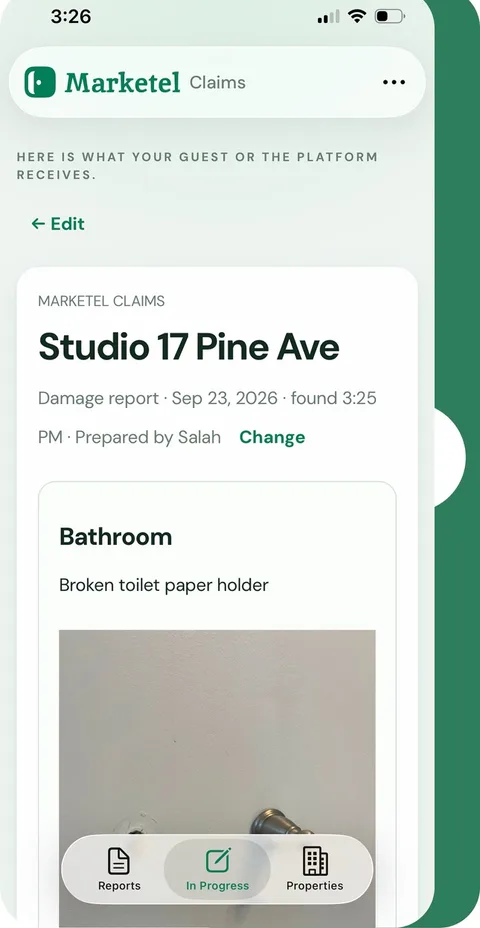
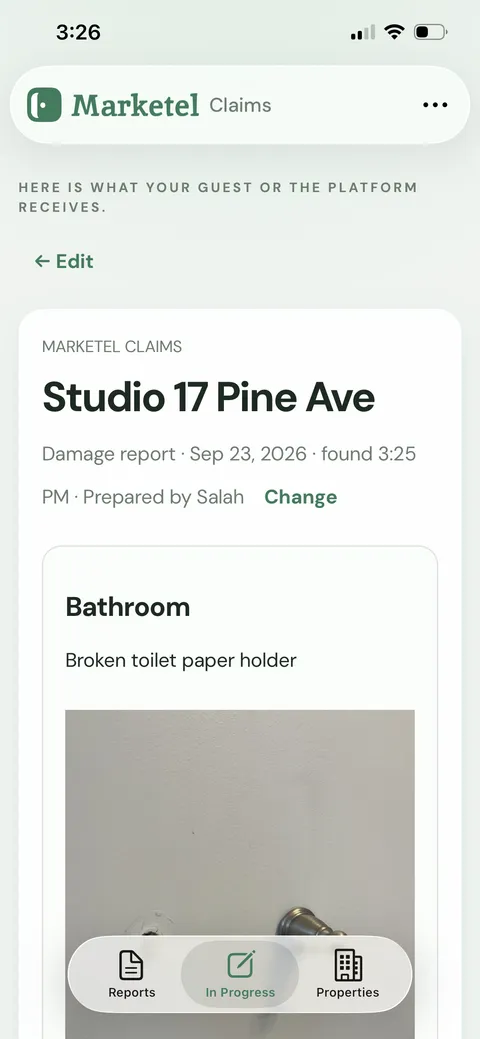
Raw app screenshots under the offer, and /funnel's "don't count this browser"
The real-app strip now uses the unedited phone screenshots (IMG_3344, 3347,
3350, 3351) instead of the App Store frames, with a thin border.

Opening /funnel switches that browser off: the demo sends no steps, every
request carries x-marketel-no-track, and the server records nothing and sends
Meta nothing for it; a button flips it back. ?notrack=1 does the same in an
in-app browser. The owner's other addresses (salahsalad100@gmail.com,
support@bookmarketel.com) are excluded like the others.

diff --git a/guest-lodge-backend/public/inspect/inspect.js b/guest-lodge-backend/public/inspect/inspect.js
@@ -252,8 +252,18 @@ function confirmSessionLost() {
   })().finally(() => { sessionCheck = null; });
   return sessionCheck;
 }
+// "Don't count my visits" from /funnel (or ?notrack=1 on any page, for an
+// in-app browser that /funnel never opens in). Same site, so same storage.
+const ownerBrowser = (() => {
+  try {
+    const asked = new URLSearchParams(location.search).get('notrack');
+    if (asked === '1') localStorage.setItem('marketel.noTrack', '1');
+    if (asked === '0') localStorage.removeItem('marketel.noTrack');
+    return localStorage.getItem('marketel.noTrack') === '1';
+  } catch { return false; }
+})();
 async function api(path, options = {}) {
-  const headers = { ...(session ? { Authorization: `Bearer ${session}` } : {}), ...(options.body && !(options.body instanceof FormData) ? { 'Content-Type': 'application/json' } : {}) };
+  const headers = { ...(ownerBrowser ? { 'x-marketel-no-track': '1' } : {}), ...(session ? { Authorization: `Bearer ${session}` } : {}), ...(options.body && !(options.body instanceof FormData) ? { 'Content-Type': 'application/json' } : {}) };
   // Uploads and downloads can legitimately take a while; everything else gets
   // a bound, so a request that never answers cannot hold the boot or a button.
   const controller = options.body instanceof FormData || options.blob ? null : new AbortController();
@@ -399,6 +409,7 @@ const haptic=(style='')=>{if(native)window.webkit?.messageHandlers?.marketelShel
 // before the email wall — otherwise the owners it exists to count are invisible.
 const logInspect=(name,anonymous=false)=>{
   if(!session&&!anonymous)return;
+  if(ownerBrowser)return;
   api(session?'/events':'/events/anon',{method:'POST',body:{name}}).catch(()=>{});
 };
 $('dialog-close').onclick = () => $('dialog').close();
@@ -610,6 +621,7 @@ const storedEmail = () => { try { return localStorage.getItem('inspect.email') |
 const visitorId = (() => { try { let value = localStorage.getItem('inspect.visitor') || ''; if (!/^v_[A-Za-z0-9]{8,40}$/.test(value)) { value = `v_${uid().replace(/[^A-Za-z0-9]/g, '').slice(0, 24)}`; localStorage.setItem('inspect.visitor', value); } return value; } catch { return ''; } })();
 const trackedSteps = new Set();
 function track(name, detail, once = true) {
+  if (ownerBrowser) return;
   if (once && trackedSteps.has(name)) return;
   trackedSteps.add(name);
   api(session ? '/events' : '/events/anon', { method: 'POST', body: { name, tool: toolId(), visitorId, detail } }).catch(() => {});
@@ -987,6 +999,7 @@ function simCheckout(email,trigger){
 // counts one per visitor. The attribution goes with it, since there is no
 // account yet to carry it.
 function simCheckoutTapped(){
+  if(ownerBrowser)return;
   api('/events/anon',{method:'POST',body:{name:'SimCheckoutTapped',tool:toolId(),visitorId,detail:planInterval,attribution:inspectAttribution}}).catch(()=>{});
 }
 function simBuy(trigger){
@@ -1043,7 +1056,7 @@ function simKept(email){
 function simAppProof(){
   const shots=MANIFESTS?.[toolId()]?.appStore?.screens||[];
   if(!appLive()||!shots.length)return '';
-  return `<section class="sim-app-proof" id="sim-app-proof"><small class="eyebrow">The real app</small><h3>This is what you'll use.</h3><div class="sim-screens" id="sim-screens" tabindex="0" role="group" aria-label="Screens of the Marketel app">${shots.map(shot=>`<figure><img src="/inspect/sample/${esc(shot.file)}" alt="${esc(shot.caption)}" loading="lazy" decoding="async" width="480" height="928"><figcaption>${esc(shot.caption)}</figcaption></figure>`).join('')}</div><div class="sim-screens-nav"><button type="button" class="quiet" data-screens="-1" aria-label="Previous screen">←</button><button type="button" class="quiet" data-screens="1" aria-label="Next screen">→</button></div><p class="muted"><small>On the App Store for iPhone, and right here in your browser.</small></p></section>`;
+  return `<section class="sim-app-proof" id="sim-app-proof"><small class="eyebrow">The real app</small><h3>This is what you'll use.</h3><div class="sim-screens" id="sim-screens" tabindex="0" role="group" aria-label="Screens of the Marketel app">${shots.map(shot=>`<figure><img src="/inspect/sample/${esc(shot.file)}" alt="${esc(shot.caption)}" loading="lazy" decoding="async" width="480" height="1039"><figcaption>${esc(shot.caption)}</figcaption></figure>`).join('')}</div><div class="sim-screens-nav"><button type="button" class="quiet" data-screens="-1" aria-label="Previous screen">←</button><button type="button" class="quiet" data-screens="1" aria-label="Next screen">→</button></div><p class="muted"><small>On the App Store for iPhone, and right here in your browser.</small></p></section>`;
 }
 function bindAppProof(){
   const proof=$('sim-app-proof'),strip=$('sim-screens');

diff --git a/marketel-frontdesk-ios/www/inspect/inspect.js b/marketel-frontdesk-ios/www/inspect/inspect.js
@@ -252,8 +252,18 @@ function confirmSessionLost() {
   })().finally(() => { sessionCheck = null; });
   return sessionCheck;
 }
+// "Don't count my visits" from /funnel (or ?notrack=1 on any page, for an
+// in-app browser that /funnel never opens in). Same site, so same storage.
+const ownerBrowser = (() => {
+  try {
+    const asked = new URLSearchParams(location.search).get('notrack');
+    if (asked === '1') localStorage.setItem('marketel.noTrack', '1');
+    if (asked === '0') localStorage.removeItem('marketel.noTrack');
+    return localStorage.getItem('marketel.noTrack') === '1';
+  } catch { return false; }
+})();
 async function api(path, options = {}) {
-  const headers = { ...(session ? { Authorization: `Bearer ${session}` } : {}), ...(options.body && !(options.body instanceof FormData) ? { 'Content-Type': 'application/json' } : {}) };
+  const headers = { ...(ownerBrowser ? { 'x-marketel-no-track': '1' } : {}), ...(session ? { Authorization: `Bearer ${session}` } : {}), ...(options.body && !(options.body instanceof FormData) ? { 'Content-Type': 'application/json' } : {}) };
   // Uploads and downloads can legitimately take a while; everything else gets
   // a bound, so a request that never answers cannot hold the boot or a button.
   const controller = options.body instanceof FormData || options.blob ? null : new AbortController();
@@ -399,6 +409,7 @@ const haptic=(style='')=>{if(native)window.webkit?.messageHandlers?.marketelShel
 // before the email wall — otherwise the owners it exists to count are invisible.
 const logInspect=(name,anonymous=false)=>{
   if(!session&&!anonymous)return;
+  if(ownerBrowser)return;
   api(session?'/events':'/events/anon',{method:'POST',body:{name}}).catch(()=>{});
 };
 $('dialog-close').onclick = () => $('dialog').close();
@@ -610,6 +621,7 @@ const storedEmail = () => { try { return localStorage.getItem('inspect.email') |
 const visitorId = (() => { try { let value = localStorage.getItem('inspect.visitor') || ''; if (!/^v_[A-Za-z0-9]{8,40}$/.test(value)) { value = `v_${uid().replace(/[^A-Za-z0-9]/g, '').slice(0, 24)}`; localStorage.setItem('inspect.visitor', value); } return value; } catch { return ''; } })();
 const trackedSteps = new Set();
 function track(name, detail, once = true) {
+  if (ownerBrowser) return;
   if (once && trackedSteps.has(name)) return;
   trackedSteps.add(name);
   api(session ? '/events' : '/events/anon', { method: 'POST', body: { name, tool: toolId(), visitorId, detail } }).catch(() => {});
@@ -987,6 +999,7 @@ function simCheckout(email,trigger){
 // counts one per visitor. The attribution goes with it, since there is no
 // account yet to carry it.
 function simCheckoutTapped(){
+  if(ownerBrowser)return;
   api('/events/anon',{method:'POST',body:{name:'SimCheckoutTapped',tool:toolId(),visitorId,detail:planInterval,attribution:inspectAttribution}}).catch(()=>{});
 }
 function simBuy(trigger){
@@ -1043,7 +1056,7 @@ function simKept(email){
 function simAppProof(){
   const shots=MANIFESTS?.[toolId()]?.appStore?.screens||[];
   if(!appLive()||!shots.length)return '';
-  return `<section class="sim-app-proof" id="sim-app-proof"><small class="eyebrow">The real app</small><h3>This is what you'll use.</h3><div class="sim-screens" id="sim-screens" tabindex="0" role="group" aria-label="Screens of the Marketel app">${shots.map(shot=>`<figure><img src="/inspect/sample/${esc(shot.file)}" alt="${esc(shot.caption)}" loading="lazy" decoding="async" width="480" height="928"><figcaption>${esc(shot.caption)}</figcaption></figure>`).join('')}</div><div class="sim-screens-nav"><button type="button" class="quiet" data-screens="-1" aria-label="Previous screen">←</button><button type="button" class="quiet" data-screens="1" aria-label="Next screen">→</button></div><p class="muted"><small>On the App Store for iPhone, and right here in your browser.</small></p></section>`;
+  return `<section class="sim-app-proof" id="sim-app-proof"><small class="eyebrow">The real app</small><h3>This is what you'll use.</h3><div class="sim-screens" id="sim-screens" tabindex="0" role="group" aria-label="Screens of the Marketel app">${shots.map(shot=>`<figure><img src="/inspect/sample/${esc(shot.file)}" alt="${esc(shot.caption)}" loading="lazy" decoding="async" width="480" height="1039"><figcaption>${esc(shot.caption)}</figcaption></figure>`).join('')}</div><div class="sim-screens-nav"><button type="button" class="quiet" data-screens="-1" aria-label="Previous screen">←</button><button type="button" class="quiet" data-screens="1" aria-label="Next screen">→</button></div><p class="muted"><small>On the App Store for iPhone, and right here in your browser.</small></p></section>`;
 }
 function bindAppProof(){
   const proof=$('sim-app-proof'),strip=$('sim-screens');

diff --git a/guest-lodge-backend/test/browser/funnel.test.js b/guest-lodge-backend/test/browser/funnel.test.js
@@ -1,0 +1,61 @@
+'use strict';
+const test = require('node:test');
+const assert = require('node:assert/strict');
+const fs = require('node:fs');
+const path = require('node:path');
+const { chromium } = require('playwright-core');
+const { open } = require('./harness');
+const { buildWedgeFunnel } = require('../../wedge-funnel');
+
+// The owner's own browser, once switched off on /funnel, sends no steps at
+// all, and every request it does make is marked so the server records nothing.
+test('a browser switched off on /funnel goes through the whole demo without counting', async () => {
+  const h = await open({ arm: 'claims', signedIn: false, demo: true, viewport: { width: 390, height: 844 } });
+  try {
+    await h.page.waitForSelector('[data-sim-pick]');
+    await h.page.evaluate(() => localStorage.setItem('marketel.noTrack', '1'));
+    const sent = [];
+    h.page.on('request', request => { const url = new URL(request.url()); if (url.pathname.startsWith('/api/inspect/')) sent.push({ path: url.pathname, marked: request.headers()['x-marketel-no-track'] === '1' }); });
+    const before = h.events.length;
+    await h.page.reload({ waitUntil: 'domcontentloaded' });
+    await h.page.locator('[data-sim-pick]').first().click();
+    await h.page.waitForSelector('#sim-mic-button');
+    await h.page.click('#sim-mic-button');
+    await h.page.waitForSelector('#sim-shutter:not([disabled])', { timeout: 10000 });
+    await h.page.click('#sim-shutter');
+    await h.page.waitForSelector('#sim-see', { timeout: 10000 });
+    await h.page.click('#sim-see');
+    await h.page.waitForSelector('#sim-buy');
+    await h.page.waitForTimeout(300);
+    assert.equal(h.events.length, before, 'no demo step was sent');
+    assert.ok(!sent.some(r => r.path.startsWith('/api/inspect/events')), JSON.stringify(sent));
+    assert.ok(sent.every(r => r.marked), `every request is marked: ${JSON.stringify(sent)}`);
+    h.assertClean();
+  } finally { await h.close(); }
+});
+
+test('/funnel switches its own browser off the first time, and the button flips it', async () => {
+  const body = JSON.stringify({ wedges: [{ id: 'claims', product: 'Claims' }], tool: 'claims', ...buildWedgeFunnel([]) });
+  const browser = await chromium.launch();
+  try {
+    const page = await browser.newPage({ viewport: { width: 1280, height: 900 } });
+    await page.addInitScript(() => localStorage.setItem('marketelAdminToken', 'test'));
+    await page.route('http://funnel.test/**', route => {
+      const url = new URL(route.request().url());
+      if (url.pathname === '/api/funnel/wedge') return route.fulfill({ status: 200, body, headers: { 'content-type': 'application/json' } });
+      if (url.pathname === '/funnel') return route.fulfill({ status: 200, body: fs.readFileSync(path.join(__dirname, '../../wedge-funnel.html')), headers: { 'content-type': 'text/html' } });
+      return route.fulfill({ status: 404, body: '' });
+    });
+    await page.goto('http://funnel.test/funnel');
+    await page.waitForSelector('#track-toggle');
+    assert.equal(await page.evaluate(() => localStorage.getItem('marketel.noTrack')), '1');
+    assert.match(await page.textContent('#track-toggle'), /Not counting this browser/);
+    await page.click('#track-toggle');
+    assert.equal(await page.evaluate(() => localStorage.getItem('marketel.noTrack')), '0');
+    assert.match(await page.textContent('#track-toggle'), /^Counting this browser/);
+    // Chosen once, it stays chosen: reopening does not switch it back off.
+    await page.reload();
+    await page.waitForSelector('#track-toggle');
+    assert.equal(await page.evaluate(() => localStorage.getItem('marketel.noTrack')), '0');
+  } finally { await browser.close(); }
+});

diff --git a/guest-lodge-backend/public/inspect/index.html b/guest-lodge-backend/public/inspect/index.html
@@ -1,3 +1,3 @@
 <!doctype html>
-<html lang="en"><head><meta charset="utf-8"><meta name="viewport" content="width=device-width,initial-scale=1,maximum-scale=1,user-scalable=no,viewport-fit=cover,interactive-widget=overlays-content"><meta name="theme-color" content="#eff4f0"><meta name="referrer" content="no-referrer"><title>Marketel Inspect — Your walkthrough, a finished report</title><link rel="icon" href="/marketel-frontdesk-icon.png"><link rel="stylesheet" href="/inspect/inspect.css?v=81"></head>
-<body><header><div class="header-bar"><a id="product-switch" class="brand" href="/inspect/"><img class="brand-icon" src="/marketel-frontdesk-icon.png" alt=""><img class="brand-wordmark" src="/marketel.svg" alt="Marketel"><span>Inspect</span></a><button id="account-button" class="quiet">Sign in</button></div><div id="header-drawer" class="header-drawer" role="region" aria-label="Sign in to Marketel Inspect" aria-hidden="true" inert><div class="header-drawer-clip"><section class="header-drawer-content"><div id="header-drawer-body"></div><button type="button" id="header-drawer-close" class="quiet header-drawer-close" aria-label="Close">&#10005;</button></section></div></div></header><main id="app"></main><nav id="nav" hidden><button data-page="reports">Reports</button><button id="current-report" data-page="new">+ New report</button><button data-page="properties">Properties</button></nav><div id="notice" role="status" aria-live="polite"></div><dialog id="dialog" tabindex="-1"><div id="dialog-body"></div><button id="dialog-close" class="quiet" aria-label="Close" title="Close">&#10005;</button></dialog><script src="/inspect/wedges.js?v=81"></script><script src="/inspect/inspect.js?v=81" type="module"></script></body></html>
+<html lang="en"><head><meta charset="utf-8"><meta name="viewport" content="width=device-width,initial-scale=1,maximum-scale=1,user-scalable=no,viewport-fit=cover,interactive-widget=overlays-content"><meta name="theme-color" content="#eff4f0"><meta name="referrer" content="no-referrer"><title>Marketel Inspect — Your walkthrough, a finished report</title><link rel="icon" href="/marketel-frontdesk-icon.png"><link rel="stylesheet" href="/inspect/inspect.css?v=83"></head>
+<body><header><div class="header-bar"><a id="product-switch" class="brand" href="/inspect/"><img class="brand-icon" src="/marketel-frontdesk-icon.png" alt=""><img class="brand-wordmark" src="/marketel.svg" alt="Marketel"><span>Inspect</span></a><button id="account-button" class="quiet">Sign in</button></div><div id="header-drawer" class="header-drawer" role="region" aria-label="Sign in to Marketel Inspect" aria-hidden="true" inert><div class="header-drawer-clip"><section class="header-drawer-content"><div id="header-drawer-body"></div><button type="button" id="header-drawer-close" class="quiet header-drawer-close" aria-label="Close">&#10005;</button></section></div></div></header><main id="app"></main><nav id="nav" hidden><button data-page="reports">Reports</button><button id="current-report" data-page="new">+ New report</button><button data-page="properties">Properties</button></nav><div id="notice" role="status" aria-live="polite"></div><dialog id="dialog" tabindex="-1"><div id="dialog-body"></div><button id="dialog-close" class="quiet" aria-label="Close" title="Close">&#10005;</button></dialog><script src="/inspect/wedges.js?v=83"></script><script src="/inspect/inspect.js?v=83" type="module"></script></body></html>

diff --git a/marketel-frontdesk-ios/www/inspect/index.html b/marketel-frontdesk-ios/www/inspect/index.html
@@ -1,3 +1,3 @@
 <!doctype html>
-<html lang="en"><head><meta charset="utf-8"><meta name="viewport" content="width=device-width,initial-scale=1,maximum-scale=1,user-scalable=no,viewport-fit=cover,interactive-widget=overlays-content"><meta name="theme-color" content="#eff4f0"><meta name="referrer" content="no-referrer"><title>Marketel Inspect — Your walkthrough, a finished report</title><link rel="icon" href="/marketel-frontdesk-icon.png"><link rel="stylesheet" href="/inspect/inspect.css?v=81"></head>
-<body><header><div class="header-bar"><a id="product-switch" class="brand" href="/inspect/"><img class="brand-icon" src="/marketel-frontdesk-icon.png" alt=""><img class="brand-wordmark" src="/marketel.svg" alt="Marketel"><span>Inspect</span></a><button id="account-button" class="quiet">Sign in</button></div><div id="header-drawer" class="header-drawer" role="region" aria-label="Sign in to Marketel Inspect" aria-hidden="true" inert><div class="header-drawer-clip"><section class="header-drawer-content"><div id="header-drawer-body"></div><button type="button" id="header-drawer-close" class="quiet header-drawer-close" aria-label="Close">&#10005;</button></section></div></div></header><main id="app"></main><nav id="nav" hidden><button data-page="reports">Reports</button><button id="current-report" data-page="new">+ New report</button><button data-page="properties">Properties</button></nav><div id="notice" role="status" aria-live="polite"></div><dialog id="dialog" tabindex="-1"><div id="dialog-body"></div><button id="dialog-close" class="quiet" aria-label="Close" title="Close">&#10005;</button></dialog><script src="/inspect/wedges.js?v=81"></script><script src="/inspect/inspect.js?v=81" type="module"></script></body></html>
+<html lang="en"><head><meta charset="utf-8"><meta name="viewport" content="width=device-width,initial-scale=1,maximum-scale=1,user-scalable=no,viewport-fit=cover,interactive-widget=overlays-content"><meta name="theme-color" content="#eff4f0"><meta name="referrer" content="no-referrer"><title>Marketel Inspect — Your walkthrough, a finished report</title><link rel="icon" href="/marketel-frontdesk-icon.png"><link rel="stylesheet" href="/inspect/inspect.css?v=83"></head>
+<body><header><div class="header-bar"><a id="product-switch" class="brand" href="/inspect/"><img class="brand-icon" src="/marketel-frontdesk-icon.png" alt=""><img class="brand-wordmark" src="/marketel.svg" alt="Marketel"><span>Inspect</span></a><button id="account-button" class="quiet">Sign in</button></div><div id="header-drawer" class="header-drawer" role="region" aria-label="Sign in to Marketel Inspect" aria-hidden="true" inert><div class="header-drawer-clip"><section class="header-drawer-content"><div id="header-drawer-body"></div><button type="button" id="header-drawer-close" class="quiet header-drawer-close" aria-label="Close">&#10005;</button></section></div></div></header><main id="app"></main><nav id="nav" hidden><button data-page="reports">Reports</button><button id="current-report" data-page="new">+ New report</button><button data-page="properties">Properties</button></nav><div id="notice" role="status" aria-live="polite"></div><dialog id="dialog" tabindex="-1"><div id="dialog-body"></div><button id="dialog-close" class="quiet" aria-label="Close" title="Close">&#10005;</button></dialog><script src="/inspect/wedges.js?v=83"></script><script src="/inspect/inspect.js?v=83" type="module"></script></body></html>

diff --git a/guest-lodge-backend/inspect.js b/guest-lodge-backend/inspect.js
@@ -484,6 +484,8 @@ function registerInspect(app, {
     if (!merged || JSON.stringify(merged) === JSON.stringify(account.metaAttribution || null)) return account;
     return db.inspectAccount.update({ where: { id: account.id }, data: { metaAttribution: merged } });
   };
+  // Set by /funnel's "Don't count my visits" switch in the owner's own browser.
+  const ownerBrowser = req => String(req?.headers?.['x-marketel-no-track'] || '') === '1';
   const queueInspectCapi = async (eventName, {
     account,
     req,
@@ -494,8 +496,9 @@ function registerInspect(app, {
     eventTime,
     appPurchase = false,
   }) => {
-    // The review account is Apple testing the app, not a customer the ads found.
-    const excluded = !!account && (isCapiExcludedEmail(account.email) || isReviewAccount(account.email));
+    // The review account is Apple testing the app, not a customer the ads found,
+    // and a browser the owner switched off on /funnel is not either.
+    const excluded = (!!account && (isCapiExcludedEmail(account.email) || isReviewAccount(account.email))) || ownerBrowser(req);
     const attribution = account?.metaAttribution && typeof account.metaAttribution === 'object'
       ? account.metaAttribution
       : {};
@@ -912,6 +915,7 @@ const signaturesHtml = document => (document.signatures || []).map(signature => 
   };
   router.post('/events/anon', guarded(async (req, res) => {
     if (!ANON_EVENTS.has(req.body?.name)) throw fail(400, 'Unknown event.');
+    if (ownerBrowser(req)) return res.json({ success: true, ignored: true });
     // Automated browsers are not visitors: our own production checks run
     // headless, and counting them (or sending them to Meta) skews the funnel.
     if (/HeadlessChrome|bot\b|crawler|spider|Playwright/i.test(String(req.headers?.['user-agent'] || ''))) return res.json({ success: true, ignored: true });
@@ -1016,7 +1020,7 @@ const signaturesHtml = document => (document.signatures || []).map(signature => 
       success_url: toolReturn(tool, 'sim=1&checkout=success&session={CHECKOUT_SESSION_ID}'),
       cancel_url: toolReturn(tool, 'sim=1&checkout=cancelled'),
     });
-    await recordBestEffort(null, 'SimCheckoutStarted', `inspect-sim-checkout:${session.id}`, { tool, visitorId: visitor });
+    if (!ownerBrowser(req)) await recordBestEffort(null, 'SimCheckoutStarted', `inspect-sim-checkout:${session.id}`, { tool, visitorId: visitor });
     res.json({ url: session.url, trialDays });
   }));
 
@@ -1096,6 +1100,7 @@ const signaturesHtml = document => (document.signatures || []).map(signature => 
   ]);
   router.post('/events', guarded(async (req, res) => {
     if (!CLIENT_EVENTS.has(req.body.name)) throw fail(400, 'Unknown event.');
+    if (ownerBrowser(req)) return res.json({ success: true, ignored: true });
     const sourceId = CLIENT_EVENTS.get(req.body.name);
     if (!sourceId) rate(`inspect-events:${req.inspect.id}`, 120, 3600000);
     await record(req.inspect.id, req.body.name, sourceId ? sourceId(req.inspect.id) : undefined, eventExtra(req.body));

diff --git a/guest-lodge-backend/wedge-funnel.html b/guest-lodge-backend/wedge-funnel.html
@@ -72,6 +72,9 @@
   .feed td.detail { color: var(--muted); }
   .empty { color: var(--muted); padding: 18px 0; text-align: center; }
   .error { color: var(--danger); }
+  .track { font: inherit; font-size: 12px; font-weight: 700; border-radius: 999px; padding: 6px 11px; cursor: pointer; border: 1px solid var(--green); background: transparent; color: var(--green-dark); }
+  .track[aria-pressed="false"] { border-color: var(--danger); color: var(--danger); }
+  .track-note { color: var(--muted); font-size: 12px; margin: -8px 0 14px; }
   #tip { position: fixed; z-index: 10; pointer-events: none; background: var(--text); color: var(--bg); padding: 8px 10px; border-radius: 10px; font-size: 12px; line-height: 1.5; box-shadow: 0 8px 24px #0003; opacity: 0; transition: opacity .12s; max-width: 260px; }
   #tip.on { opacity: 1; }
   footer { display: flex; justify-content: space-between; align-items: center; gap: 10px; margin-top: 8px; }
@@ -94,11 +97,13 @@
       <button type="button" data-days="all">All time</button>
     </div>
     <span class="spacer"></span>
+    <button type="button" class="track" id="track-toggle" aria-pressed="true"></button>
     <span class="updated" id="updated"></span>
     <button type="button" class="quiet" id="refresh">Refresh</button>
     <a class="quiet" href="/funnel/legacy">Bookings &amp; support →</a>
   </header>
 
+  <p class="track-note" id="track-note"></p>
   <section class="tiles" id="tiles" aria-live="polite"></section>
 
   <section class="card">
@@ -227,6 +232,23 @@ async function load() {
   }
 }
 
+// This browser's own visits to the site are not counted once /funnel has been
+// opened here: the demo sends nothing, and the server records nothing and
+// tells Meta nothing for it. Same site as /claims, so the same storage.
+const TRACK_KEY = 'marketel.noTrack';
+function trackState() { try { return localStorage.getItem(TRACK_KEY); } catch (_) { return null; } }
+function setTrack(value) { try { localStorage.setItem(TRACK_KEY, value); } catch (_) {} paintTrack(); }
+function paintTrack() {
+  const off = trackState() === '1';
+  $('track-toggle').setAttribute('aria-pressed', String(off));
+  $('track-toggle').textContent = off ? '✓ Not counting this browser' : 'Counting this browser';
+  $('track-note').textContent = off
+    ? 'Your visits to the site from this browser are left out of these numbers and out of Meta. Do the same on each phone and computer you test from; inside the Instagram or Facebook app, open bookmarketel.com/claims?notrack=1 once.'
+    : 'This browser counts like a visitor. Switch it off before looking at the site yourself.';
+}
+if (trackState() === null) setTrack('1');
+paintTrack();
+$('track-toggle').onclick = () => setTrack(trackState() === '1' ? '0' : '1');
 document.querySelectorAll('.range button').forEach(button => button.onclick = () => { state.days = button.dataset.days; saveState(); load(); });
 $('wedge').onchange = () => { state.tool = $('wedge').value; saveState(); load(); };
 $('refresh').onclick = load;

diff --git a/guest-lodge-backend/test/inspect.test.js b/guest-lodge-backend/test/inspect.test.js
@@ -2742,3 +2742,26 @@ test('Meta hears about the website, never about what happens inside the app', as
   assert.match(client, /const metadata = \{ product: 'marketel-inspect', inspectAccountId: a\.id, interval, tool, \.\.\.\(nativeReturn \? \{ source: 'app' \} : \{\}\) \};[\s\S]{0,260}metadata,\s*subscription_data: \{ metadata \}/);
   assert.match(client, /appPurchase: subscription\.metadata\?\.source === 'app'/);
 });
+
+test('a browser switched off on /funnel counts for nothing: no steps, no Meta event', async () => {
+  const visitorId = `v_${'b'.repeat(12)}`;
+  const h = moneyHarness();
+  try {
+    const send = (name, extra = {}) => request(h.app, '/api/inspect/events/anon', { method: 'POST',
+      headers: { 'Content-Type': 'application/json', Origin: 'https://bookmarketel.com', 'x-marketel-no-track': '1' },
+      body: JSON.stringify({ name, tool: 'claims', visitorId, detail: 'month', attribution: { fbp: 'fb.1.1700000000.123' }, ...extra }) });
+    for (const name of ['SimStarted', 'SimReportShown', 'SimCheckoutTapped']) {
+      const response = await send(name);
+      assert.equal(response.status, 200);
+      assert.deepEqual(await response.json(), { success: true, ignored: true });
+    }
+    assert.equal(h.calls.events.filter(e => e.visitorId === visitorId).length, 0, 'nothing recorded');
+    assert.deepEqual(h.calls.capi, [], 'nothing sent to Meta');
+    // Unknown names are still refused, switched off or not.
+    assert.equal((await send('NotAStep')).status, 400);
+    // And an ordinary visitor still counts.
+    await request(h.app, '/api/inspect/events/anon', { method: 'POST', headers: { 'Content-Type': 'application/json' },
+      body: JSON.stringify({ name: 'SimStarted', tool: 'claims', visitorId, detail: 'phone' }) });
+    assert.equal(h.calls.events.filter(e => e.visitorId === visitorId && e.name === 'SimStarted').length, 1);
+  } finally { h.registration.close(); }
+});

diff --git a/guest-lodge-backend/public/inspect/inspect.css b/guest-lodge-backend/public/inspect/inspect.css
@@ -787,7 +787,7 @@ html.sim-framed.sim-split #app { grid-row: 2; grid-column: 1; margin: 0; }
 .sim-screens { display: flex; gap: 12px; overflow-x: auto; scroll-snap-type: x mandatory; padding: 2px 2px 8px; overscroll-behavior-x: contain; scrollbar-width: none; }
 .sim-screens::-webkit-scrollbar { display: none; }
 .sim-screens figure { flex: 0 0 54%; margin: 0; scroll-snap-align: start; }
-.sim-screens img { display: block; width: 100%; height: auto; border-radius: 18px; background: var(--green-pale); box-shadow: 0 6px 18px #173b2318; }
+.sim-screens img { display: block; width: 100%; height: auto; border-radius: 18px; border: 1px solid var(--border); background: var(--green-pale); box-shadow: 0 6px 18px #173b2318; }
 .sim-screens figcaption { margin-top: 8px; font-size: 13px; font-weight: 650; line-height: 1.35; }
 .sim-screens-nav { display: none; justify-content: flex-end; gap: 4px; }
 @media (hover: hover) and (pointer: fine) { .sim-screens-nav { display: flex; } }

diff --git a/marketel-frontdesk-ios/www/inspect/inspect.css b/marketel-frontdesk-ios/www/inspect/inspect.css
@@ -787,7 +787,7 @@ html.sim-framed.sim-split #app { grid-row: 2; grid-column: 1; margin: 0; }
 .sim-screens { display: flex; gap: 12px; overflow-x: auto; scroll-snap-type: x mandatory; padding: 2px 2px 8px; overscroll-behavior-x: contain; scrollbar-width: none; }
 .sim-screens::-webkit-scrollbar { display: none; }
 .sim-screens figure { flex: 0 0 54%; margin: 0; scroll-snap-align: start; }
-.sim-screens img { display: block; width: 100%; height: auto; border-radius: 18px; background: var(--green-pale); box-shadow: 0 6px 18px #173b2318; }
+.sim-screens img { display: block; width: 100%; height: auto; border-radius: 18px; border: 1px solid var(--border); background: var(--green-pale); box-shadow: 0 6px 18px #173b2318; }
 .sim-screens figcaption { margin-top: 8px; font-size: 13px; font-weight: 650; line-height: 1.35; }
 .sim-screens-nav { display: none; justify-content: flex-end; gap: 4px; }
 @media (hover: hover) and (pointer: fine) { .sim-screens-nav { display: flex; } }

diff --git a/guest-lodge-backend/server.js b/guest-lodge-backend/server.js
@@ -11184,6 +11184,8 @@ const FUNNEL_DASHBOARD_EXCLUDED_HOTEL_IDS = [
 const FUNNEL_DASHBOARD_EXCLUDED_OWNER_EMAILS = [
     'bro2theno@gmail.com',
     'samatarsalahudeen@gmail.com',
+    'salahsalad100@gmail.com',
+    'support@bookmarketel.com',
 ];
 // Test runs use plus-aliases (owner+claims1@gmail.com), which are the same
 // mailbox. Normalize before matching so a test purchase never trains Meta.

diff --git a/docs/wedges/FRAMEWORK.md b/docs/wedges/FRAMEWORK.md
@@ -135,7 +135,10 @@ is recorded with the wedge's tool and the visitor id; server records (trial,
 first payment, cancellation) carry them too. A new step in any wedge must be
 recorded and listed in `wedge-funnel.js` before it ships. Headless browsers are
 not counted, so production checks never pollute it. The old booking and
-support dashboard is at `/funnel/legacy`.
+support dashboard is at `/funnel/legacy`. Opening `/funnel` in a browser switches that
+browser off ("Not counting this browser"): it sends no steps, every request is
+marked `x-marketel-no-track`, and the server records nothing and tells Meta
+nothing for it. `?notrack=1` on any page does the same for in-app browsers.
 
 ## 9. App Store
 
